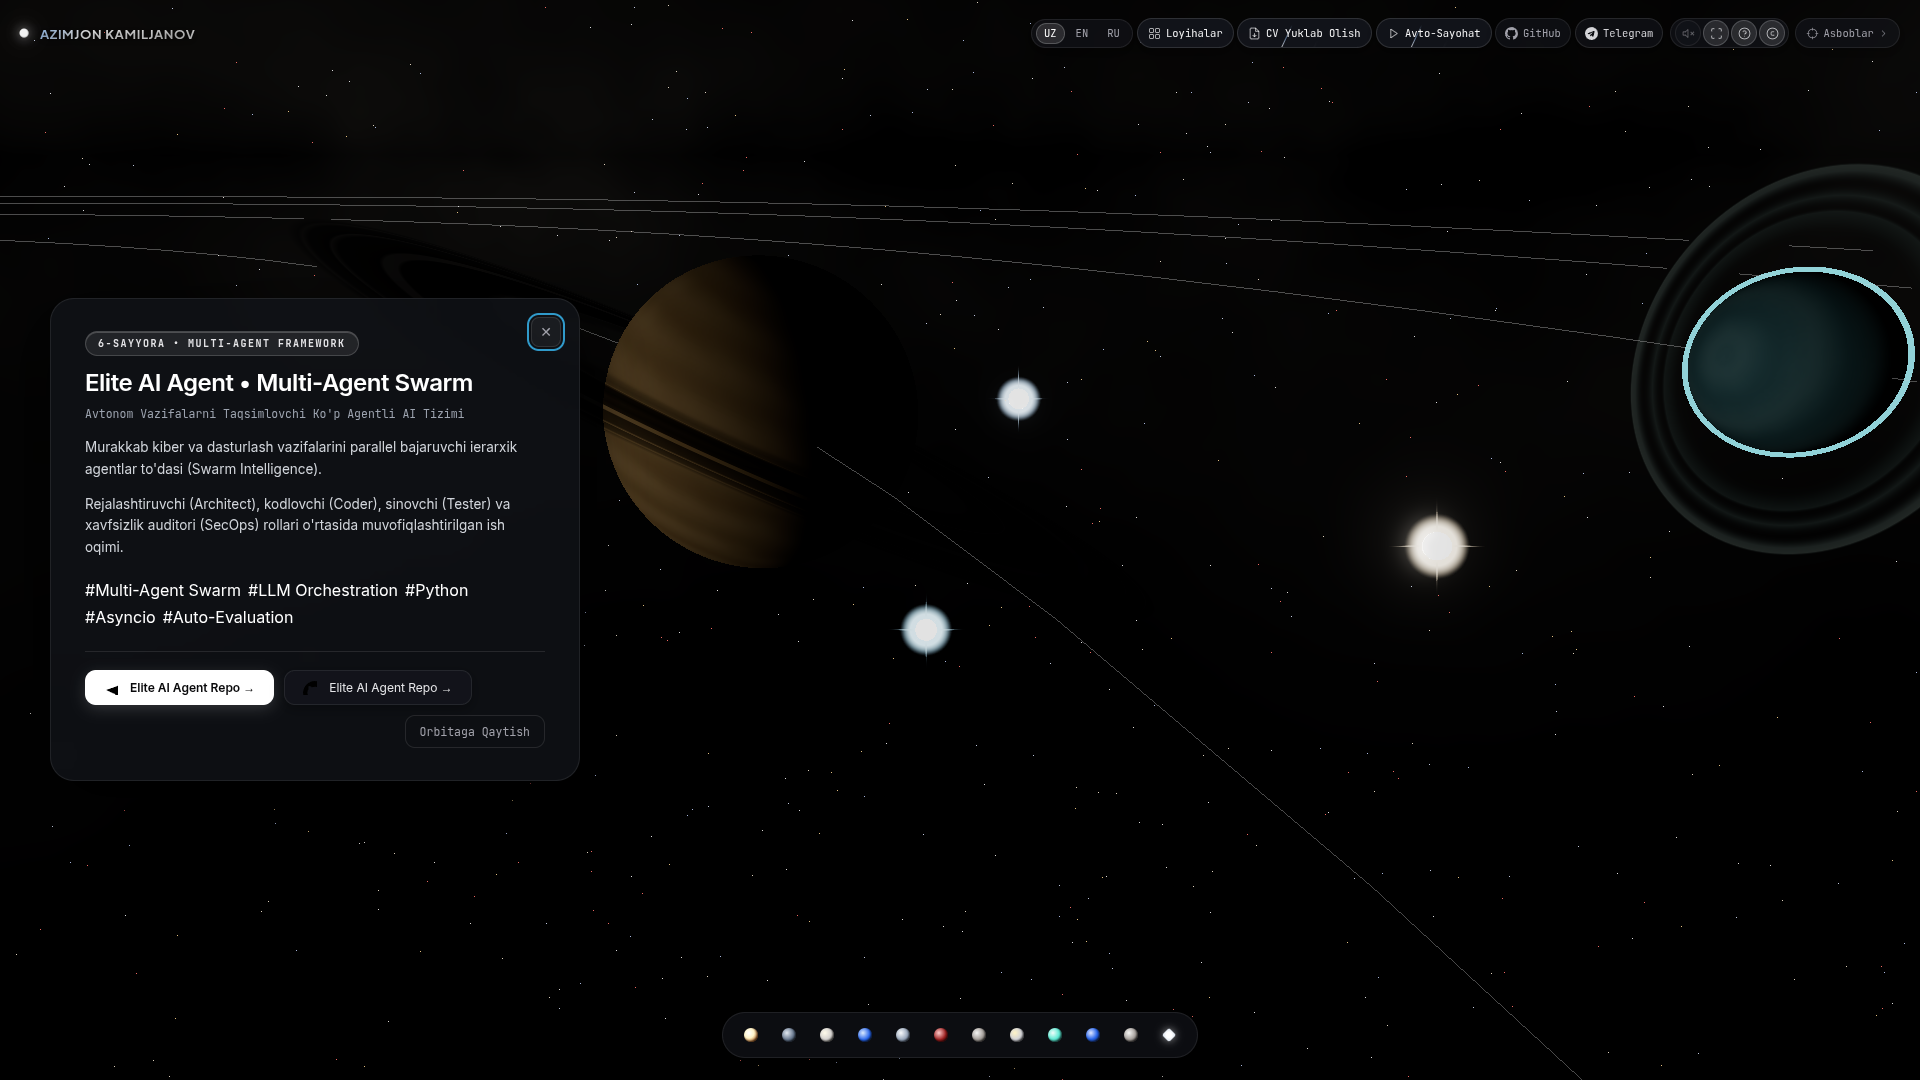
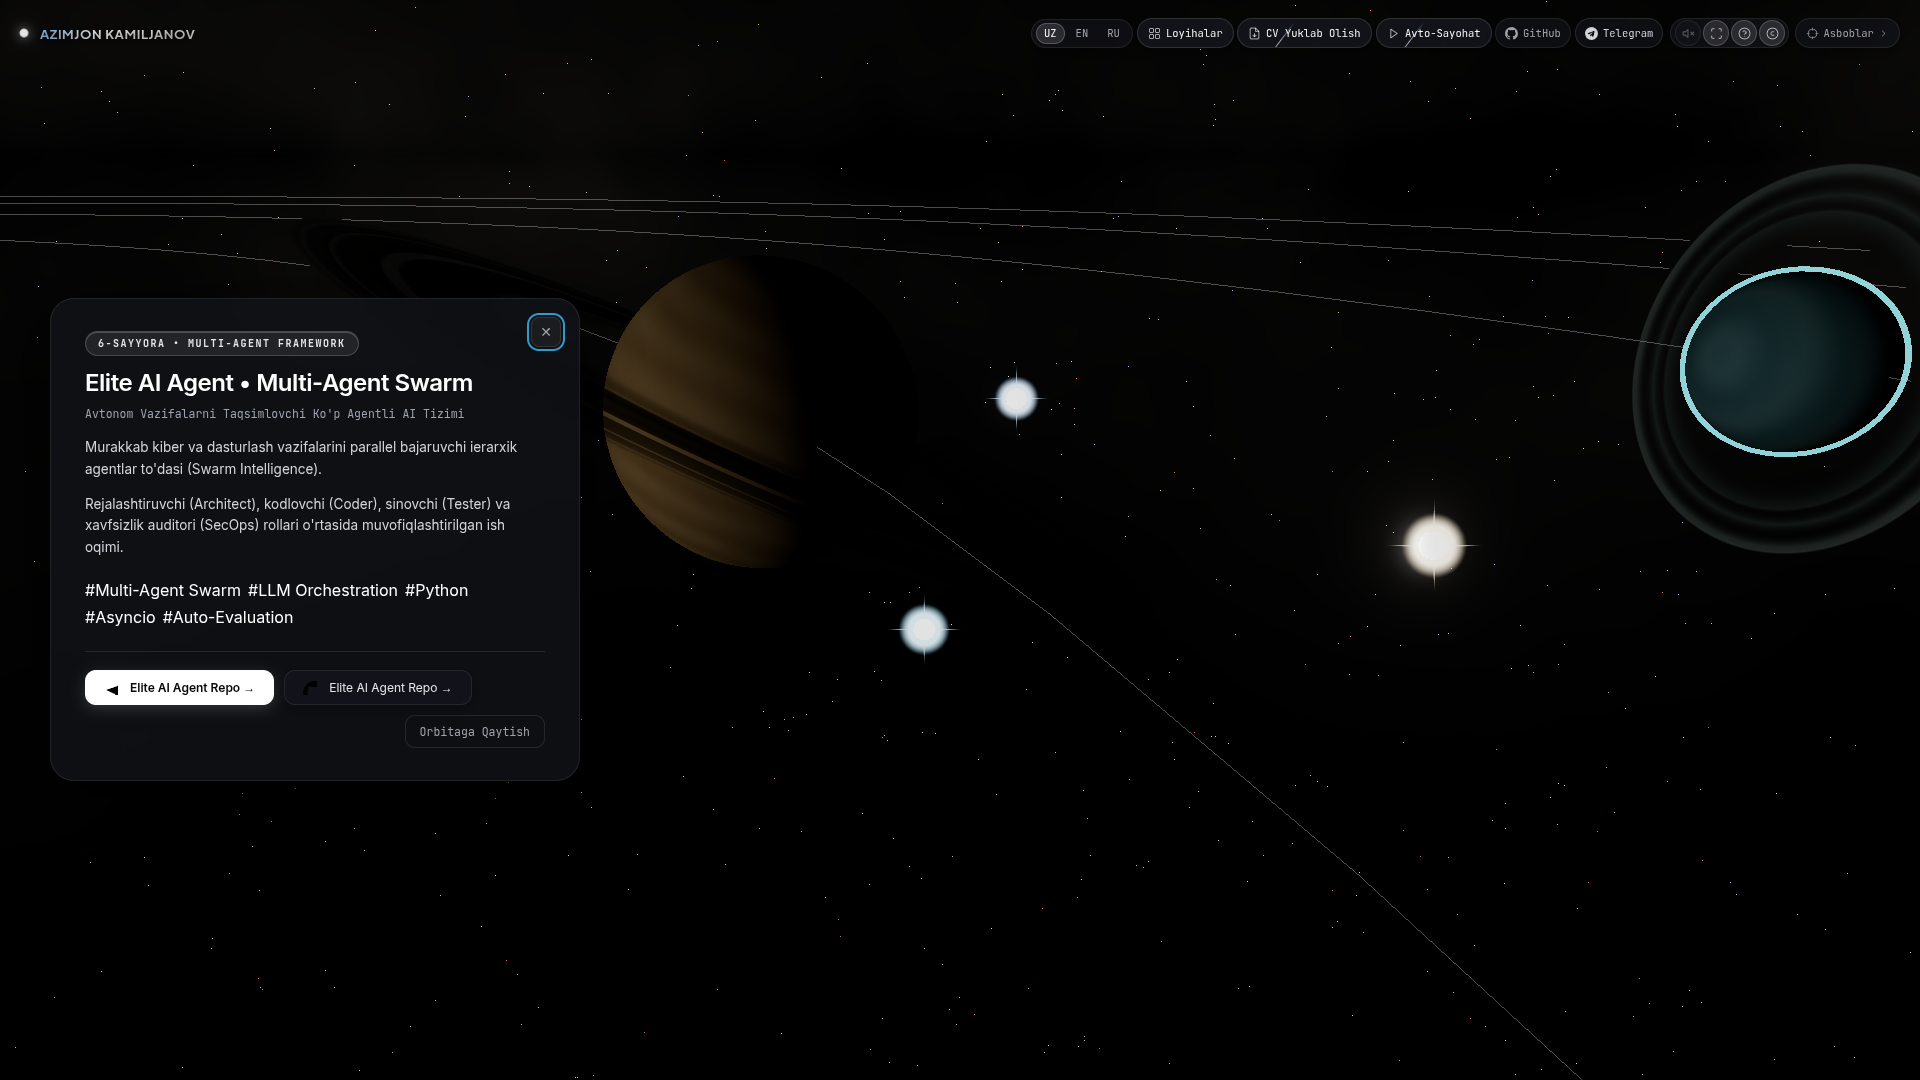
refactor(ui): remove bottom planet navigation dock as requested

diff --git a/index.html b/index.html
@@ -432,57 +432,6 @@ RTX 5070 CUDA bilan tezlashtirilgan Hashcat, Nmap, Radare2, Lynis, Volatility3, 
         </div>
     </header>
 
-    <!-- Bottom Navigation Dock -->
-    <nav id="nav-container" aria-label="Sayyoralar navigatsiyasi">
-        <button class="nav-btn" data-target="sun" title="Quyosh (Sun) • Markaziy Yulduz">
-            <span class="planet-orb orb-sun"></span>
-            <span class="label sr-only">Quyosh</span>
-        </button>
-        <button class="nav-btn" data-target="Mercury" title="Merkuriy (Mercury) • 1-Sayyora">
-            <span class="planet-orb orb-mercury"></span>
-            <span class="label sr-only">Merkuriy</span>
-        </button>
-        <button class="nav-btn" data-target="Venus" title="Venera (Venus) • 2-Sayyora">
-            <span class="planet-orb orb-venus"></span>
-            <span class="label sr-only">Venera</span>
-        </button>
-        <button class="nav-btn" data-target="Earth" title="Yer (Earth) • 3-Sayyora">
-            <span class="planet-orb orb-earth"></span>
-            <span class="label sr-only">Yer</span>
-        </button>
-        <button class="nav-btn" data-target="moon" title="Oy (Moon) • Yer Yo\x27ldoshi">
-            <span class="planet-orb orb-moon"></span>
-            <span class="label sr-only">Oy</span>
-        </button>
-        <button class="nav-btn" data-target="Mars" title="Mars • 4-Sayyora">
-            <span class="planet-orb orb-mars"></span>
-            <span class="label sr-only">Mars</span>
-        </button>
-        <button class="nav-btn" data-target="Jupiter" title="Yupiter (Jupiter) • 5-Sayyora">
-            <span class="planet-orb orb-jupiter"></span>
-            <span class="label sr-only">Yupiter</span>
-        </button>
-        <button class="nav-btn" data-target="Saturn" title="Saturn • 6-Sayyora">
-            <span class="planet-orb orb-saturn"></span>
-            <span class="label sr-only">Saturn</span>
-        </button>
-        <button class="nav-btn" data-target="Uranus" title="Uran (Uranus) • 7-Sayyora">
-            <span class="planet-orb orb-uranus"></span>
-            <span class="label sr-only">Uran</span>
-        </button>
-        <button class="nav-btn" data-target="Neptune" title="Neptun (Neptune) • 8-Sayyora">
-            <span class="planet-orb orb-neptune"></span>
-            <span class="label sr-only">Neptun</span>
-        </button>
-        <button class="nav-btn" data-target="Pluto" title="Pluton (Pluto) • 9-Sayyora">
-            <span class="planet-orb orb-pluto"></span>
-            <span class="label sr-only">Pluton</span>
-        </button>
-        <button class="nav-btn special-star" data-target="star" title="Astronomik Yulduzlar & Kiber-Arsenal">
-            <span class="planet-orb orb-stars"></span>
-            <span class="label sr-only">Yulduzlar</span>
-        </button>
-    </nav>
 
     <!-- Floating Cinematic Mode Exit Banner -->
     <div id="cinematic-exit-banner" class="cinematic-exit-banner hidden">

diff --git a/tests/e2e.spec.js b/tests/e2e.spec.js
@@ -123,7 +123,7 @@ test.describe('3D Solar Developer Portfolio E2E Acceptance Tests', () => {
         });
 
         // Focus Moon
-        await page.click('.nav-btn[data-target="moon"]');
+        await page.evaluate(() => window.__solarEngine.focusTargetById('moon'));
         await page.waitForSelector('#info-panel:not(.hidden)', { timeout: 5000 });
 
         const terminal = page.locator('#moon-terminal-container');
